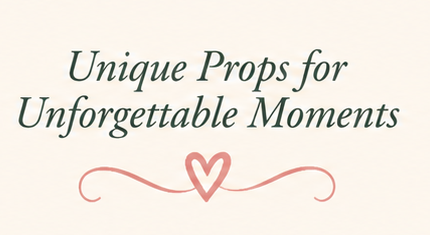
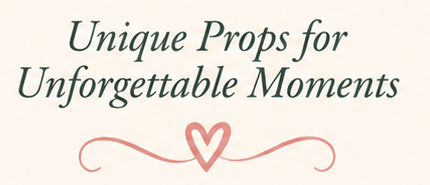
Preserve exact header artwork proportions

diff --git a/docs/index.html b/docs/index.html
@@ -24,7 +24,7 @@
   <link href="https://fonts.googleapis.com/css2?family=Cormorant+Garamond:wght@500;600;700&family=DM+Sans:wght@400;500;600&family=Italianno&display=swap" rel="stylesheet">
   <link rel="stylesheet" href="styles.css">
   <link rel="stylesheet" href="mobile.css">
-  <link rel="stylesheet" href="header.css?v=11">
+  <link rel="stylesheet" href="header.css?v=12">
   <style>
     .hero-art img { object-fit: contain; border-radius: 0; }
   </style>
@@ -36,11 +36,11 @@
     <a class="header-brand" href="#top" aria-label="Silly Goose Vintage Rentals home">
       <img class="header-goose" src="assets/header-goose-badge.png?v=1" alt="">
       <span class="header-wordmark">
-        <img class="header-wordmark-art" src="assets/header-wordmark-exact.png?v=1" alt="Silly Goose Vintage Rentals">
+        <img class="header-wordmark-art" src="assets/header-wordmark-exact.png?v=2" alt="Silly Goose Vintage Rentals">
       </span>
     </a>
     <span class="header-divider" aria-hidden="true"></span>
-    <p class="header-tagline"><img class="header-tagline-art" src="assets/header-tagline-exact.png?v=1" alt="Unique props for unforgettable moments"></p>
+    <p class="header-tagline"><img class="header-tagline-art" src="assets/header-tagline-exact.png?v=2" alt="Unique props for unforgettable moments"></p>
     <button class="menu-toggle" type="button" aria-expanded="false" aria-controls="site-nav">☰&nbsp; Menu</button>
     <nav id="site-nav" aria-label="Main navigation">
       <a href="#collection">The collection</a>

diff --git a/docs/header.css b/docs/header.css
@@ -32,9 +32,8 @@
 
 .header-wordmark-art {
   display: block;
-  width: clamp(230px, 20vw, 285px);
-  height: 100px;
-  object-fit: contain;
+  width: clamp(225px, 19vw, 265px);
+  height: auto;
 }
 
 .header-name {
@@ -90,9 +89,8 @@
 
 .header-tagline-art {
   display: block;
-  width: clamp(220px, 22vw, 315px);
-  height: 82px;
-  object-fit: contain;
+  width: clamp(190px, 17vw, 230px);
+  height: auto;
 }
 
 .tagline-heart {
@@ -171,8 +169,8 @@
   }
 
   .header-wordmark-art {
-    width: clamp(160px, 48vw, 190px);
-    height: 76px;
+    width: clamp(160px, 45vw, 175px);
+    height: auto;
   }
 
   .header-name {
@@ -206,8 +204,8 @@
   }
 
   .header-tagline-art {
-    width: min(88vw, 315px);
-    height: 54px;
+    width: 150px;
+    height: auto;
   }
 
   .tagline-heart {
